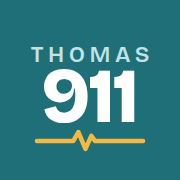
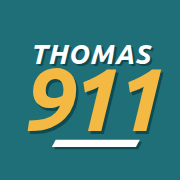
Icône THOMAS 911 façon générique de série : Ubuntu gras italique
« THOMAS » blanc, grand « 911 » doré, ombre décalée et barre inclinée.
Ajoute la police Ubuntu Bold Italic (utilisée seulement pour l'icône).

Claude-Session: https://claude.ai/code/session_01NnHgL6QFgoYbQVTE9XRNJG

Changed region(s): [[0.1389, 0.25, 0.9167, 0.8611]]

diff --git a/sw.js b/sw.js
@@ -1,6 +1,6 @@
 // Keeps a copy of the app on the phone so it opens without network.
 // Change VERSION whenever a file changes, so phones pick up the new copy.
-const VERSION = "thomas911-v2";
+const VERSION = "thomas911-v3";
 const FILES = [
   "./",
   "./index.html",
